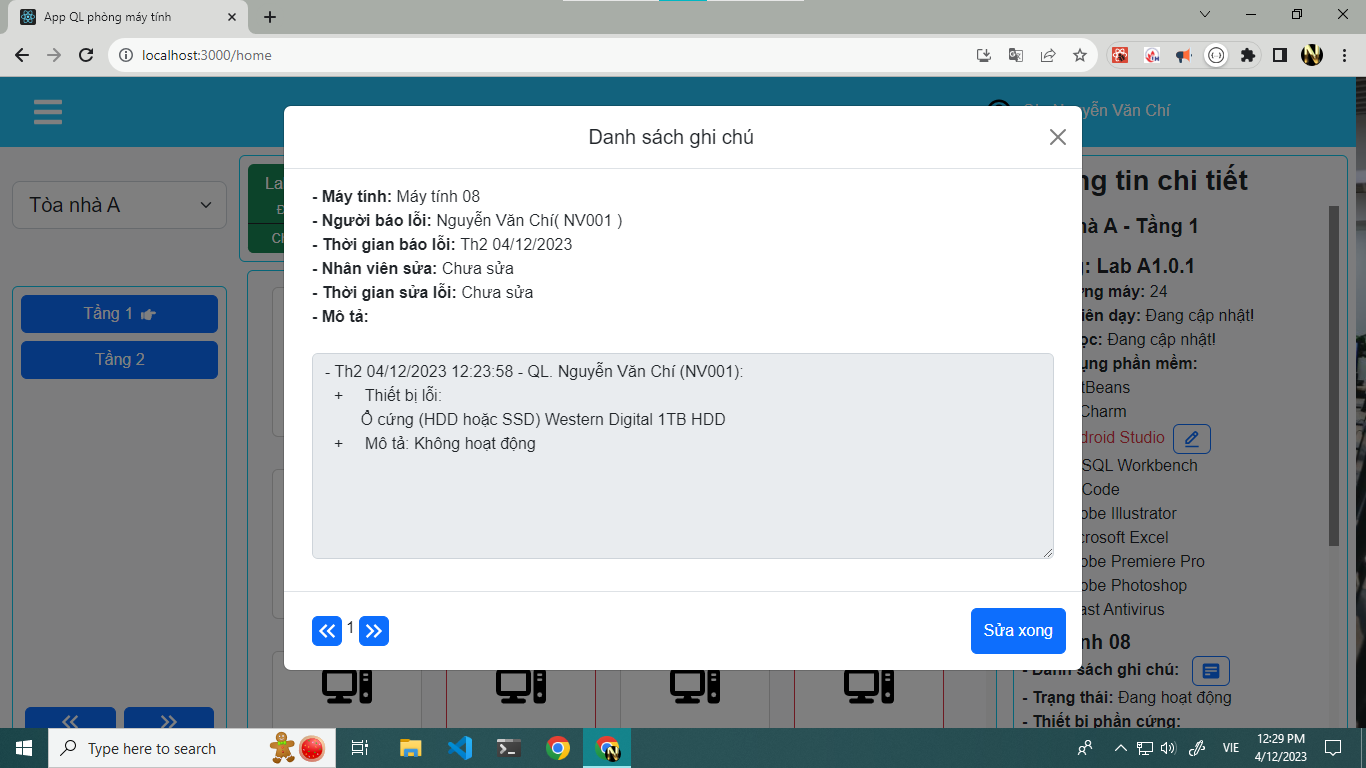
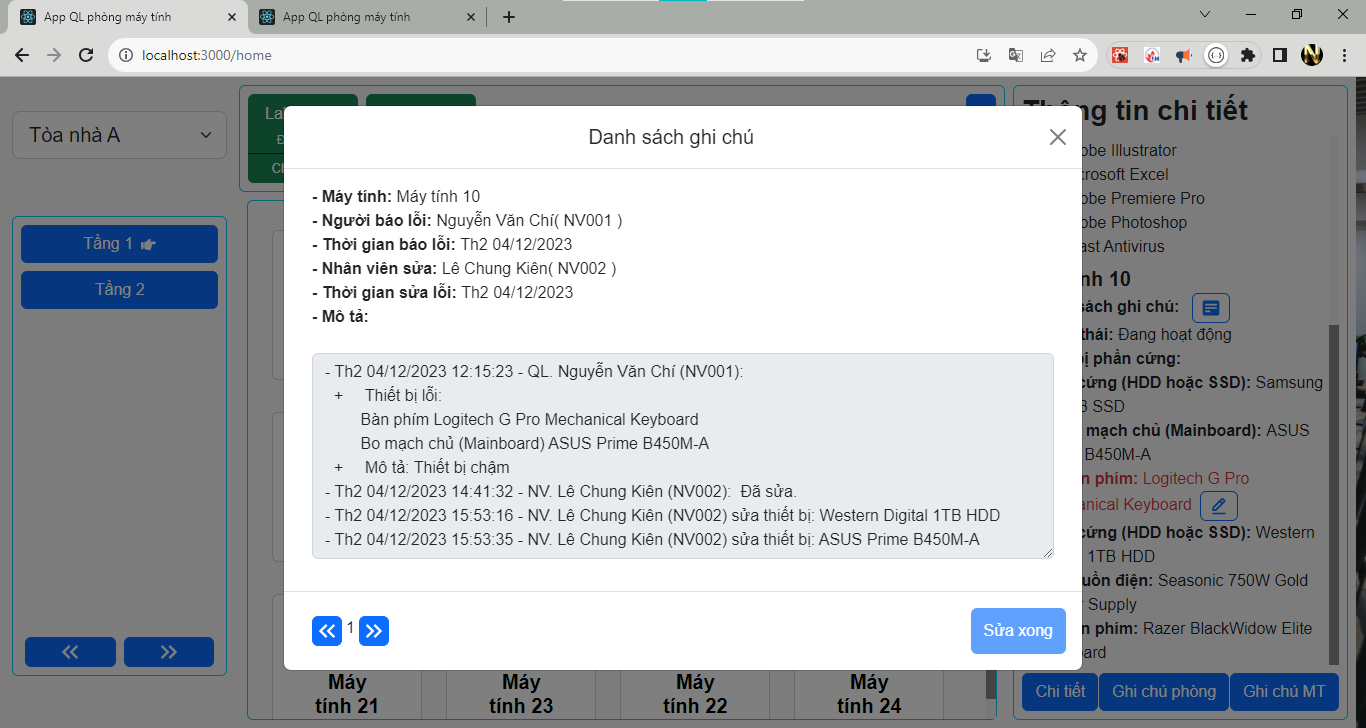
update btnSuaMaytinh thiet bi

Changed region(s): [[0.0, 0.0, 1.0, 1.0], [0.0, 0.0, 0.123, 0.0302]]

diff --git a/src/components/layoutHome/ComponentThongTinChiTiet.jsx b/src/components/layoutHome/ComponentThongTinChiTiet.jsx
@@ -1,12 +1,18 @@
 import React from "react";
-import { useSelector } from "react-redux";
+import { useDispatch, useSelector } from "react-redux";
 import { FaPencilAlt } from "react-icons/fa";
 import { BiEditAlt, BiSolidDetail } from "react-icons/bi";
 import ComponentModalDetaiGhiChulMayTinh from "./ComponentModalDetaiGhiChulMayTinh";
+import { updateGhiChu_MayTinh_Tbi_btnSuaTbi } from "../../redux/reducers/home2Reducer";
+import { formatNameByHocVi, formatStringDate4 } from "../../util/config";
 
 export default function ComponentThongTinChiTiet() {
   //
+  const dispatch = useDispatch();
+  //
   let { objThongTin } = useSelector((state) => state.homeReducer);
+  let { userLogin } = useSelector((state) => state.userReducer);
+  //
   if (
     Object.keys(objThongTin).length === 0 ||
     objThongTin.tang == null ||
@@ -26,11 +32,18 @@ export default function ComponentThongTinChiTiet() {
     monHoc,
   } = objThongTin;
 
-  /// handle 
+  /// handle
   const handleClick_btnSuaTbi_mayTinh = (item) => {
-    console.log(item);
-  }
+    let str_TaiKhoan = thongtinTaiKhoan(userLogin);
+    let noiDungNew = `\n- ${formatStringDate4()} - ${str_TaiKhoan} sửa thiết bị: ${
+      item.tenThietBi
+    }`;
+    let maTK = userLogin.taiKhoan.maTK;
 
+    dispatch(
+      updateGhiChu_MayTinh_Tbi_btnSuaTbi(maTK, noiDungNew, item, mayTinh, phong)
+    );
+  };
 
   // render
   const renderThongTinTheoPhong = () => {
@@ -127,7 +140,16 @@ export default function ComponentThongTinChiTiet() {
                 className="btn btn-outline-primary mx-2 px-2"
                 style={{ padding: "2px" }}
                 onClick={() => {
-                  handleClick_btnSuaTbi_mayTinh(item)
+                  if (
+                    window.confirm(
+                      "Bấm vào nút OK để xác nhận đã sửa. " +
+                        loaiThietBi.tenLoai +
+                        ": " +
+                        item.tenThietBi
+                    )
+                  ) {
+                    handleClick_btnSuaTbi_mayTinh(item);
+                  }
                 }}
               >
                 <BiEditAlt size={20} />
@@ -157,12 +179,11 @@ export default function ComponentThongTinChiTiet() {
     const renderBtnDSGhiChu = () => {
       let { dsGhiChu } = mayTinh;
 
-      if (dsGhiChu == null ||dsGhiChu.length === 0) {
+      if (dsGhiChu == null || dsGhiChu.length === 0) {
         return <></>;
       }
       return (
         <div>
-         
           <span style={{ fontWeight: 600 }}>- Danh sách ghi chú: </span>
           <button
             type="button"
@@ -211,3 +232,27 @@ export default function ComponentThongTinChiTiet() {
     </div>
   );
 }
+
+//
+const thongtinTaiKhoan = (userLogin) => {
+  let { quyen, maTK } = userLogin.taiKhoan;
+  let str_TaiKhoan = "";
+
+  if (quyen.tenQuyen.toLowerCase().includes("Giáo viên".toLowerCase())) {
+    let gv = {
+      hocVi: userLogin.hocVi,
+      name: userLogin.hoTen,
+    };
+    str_TaiKhoan = formatNameByHocVi(gv);
+  } else {
+    if (
+      userLogin.chucVu.tenCV.toLowerCase().includes("quản lý".toLowerCase())
+    ) {
+      str_TaiKhoan = "QL. " + userLogin.tenNV;
+    } else {
+      str_TaiKhoan = "NV. " + userLogin.tenNV;
+    }
+  }
+
+  return `${str_TaiKhoan} (${maTK})`;
+};

diff --git a/src/redux/reducers/home2Reducer.jsx b/src/redux/reducers/home2Reducer.jsx
@@ -30,6 +30,62 @@ export default home2Reducer.reducer;
 
 // +++++++++++++++++++++++++++++++++++++++++++++++++++++++++
 /**
+ *
+ * @param {can ma thiete bij de cap nhatj MayTInhThietbi} thietBi
+ * @param {maMay tinh de updat eghi chu - update MayTinhThietBI} mayTinh
+ * @param {reload lại page home} phong
+ * @returns
+ */
+export const updateGhiChu_MayTinh_Tbi_btnSuaTbi = (
+  maTK,
+  txtNoiDung,
+  thietBi,
+  mayTinh,
+  phong
+) => {
+  return async (dispatch) => {
+    try {
+      let result_ObjGhiChuGanNhat_maMay = await http.get(
+        `/GhiChuGanNhatTheoPhongMay/${mayTinh.maMay}`
+      );
+
+      let objGhiChu = { ...result_ObjGhiChuGanNhat_maMay.data };
+
+      let noidungNew = objGhiChu.noiDung + txtNoiDung;
+
+      // cap nhat laij ghi chu
+      let objGhiChuNew = {
+        ...objGhiChu,
+        noiDung: noidungNew,
+        ngaySua: new Date(),
+        nguoiSuaLoi: maTK,
+      };
+      await http.post("/LuuGhiChuMayTinh", objGhiChuNew);
+
+      //cap nhat MayTinhThietBI
+      let saveMayTinh_ThietBi = {
+        mayTinh,
+        thietBi,
+        status: true,
+      };
+      http.post("/LuuMayTinhThietBi", saveMayTinh_ThietBi);
+
+      //
+
+      let objUpdate = await http.get(`/PhongMay/${phong.maPhong}`);
+      // giups reload laij page home
+
+      dispatch(setObjThongTinByPhongMay(objUpdate.data));
+      dispatch(setObjThongTinByMay(mayTinh));
+
+      console.log("z");
+    } catch (error) {
+      alert("Lỗi hệ thống! Vui lòng quay lại sau.");
+      console.log("🚀 ~ file: home2Reducer.jsx:42 ~ return ~ error:", error);
+    }
+  };
+};
+/**
  * cap nhat ghi chu - xac nhan da suawr
  * cap nhat tgian sua- noi dung - nguoi sua
  * @param {GhiChuMayTinh} objDataNew
